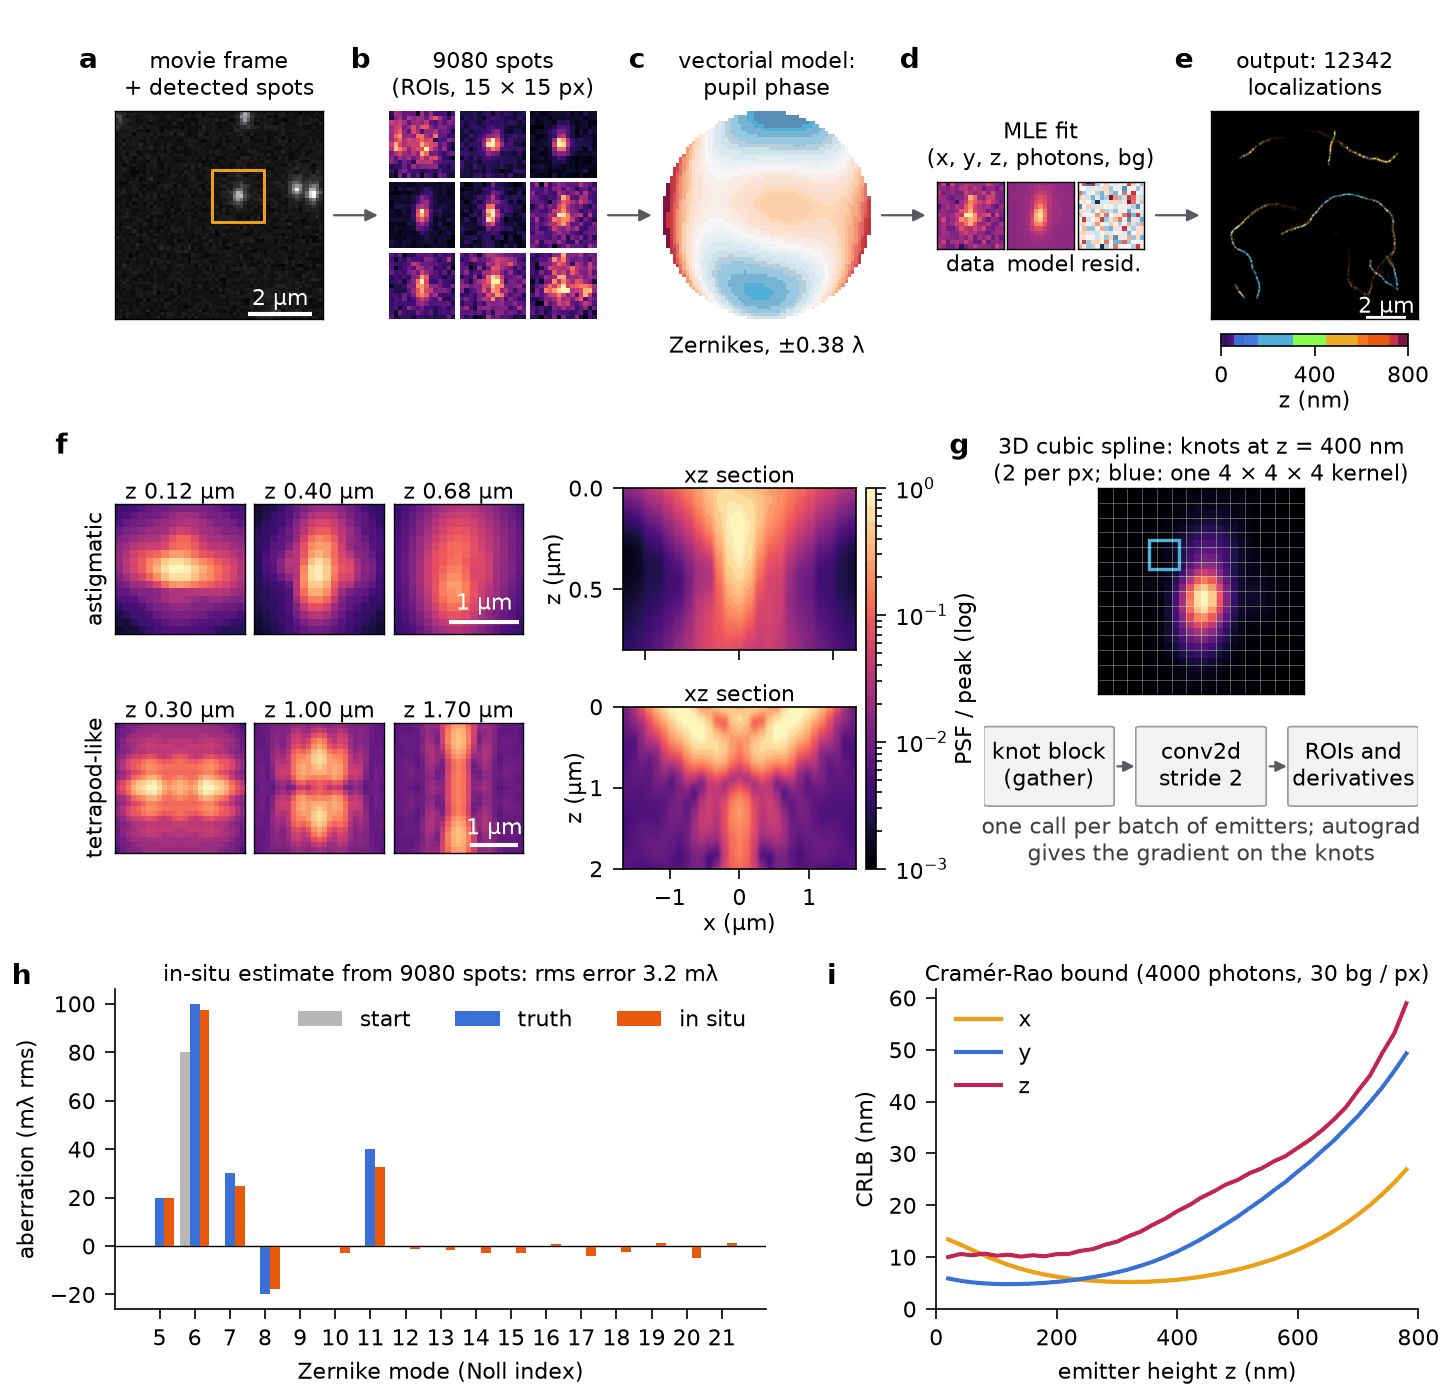
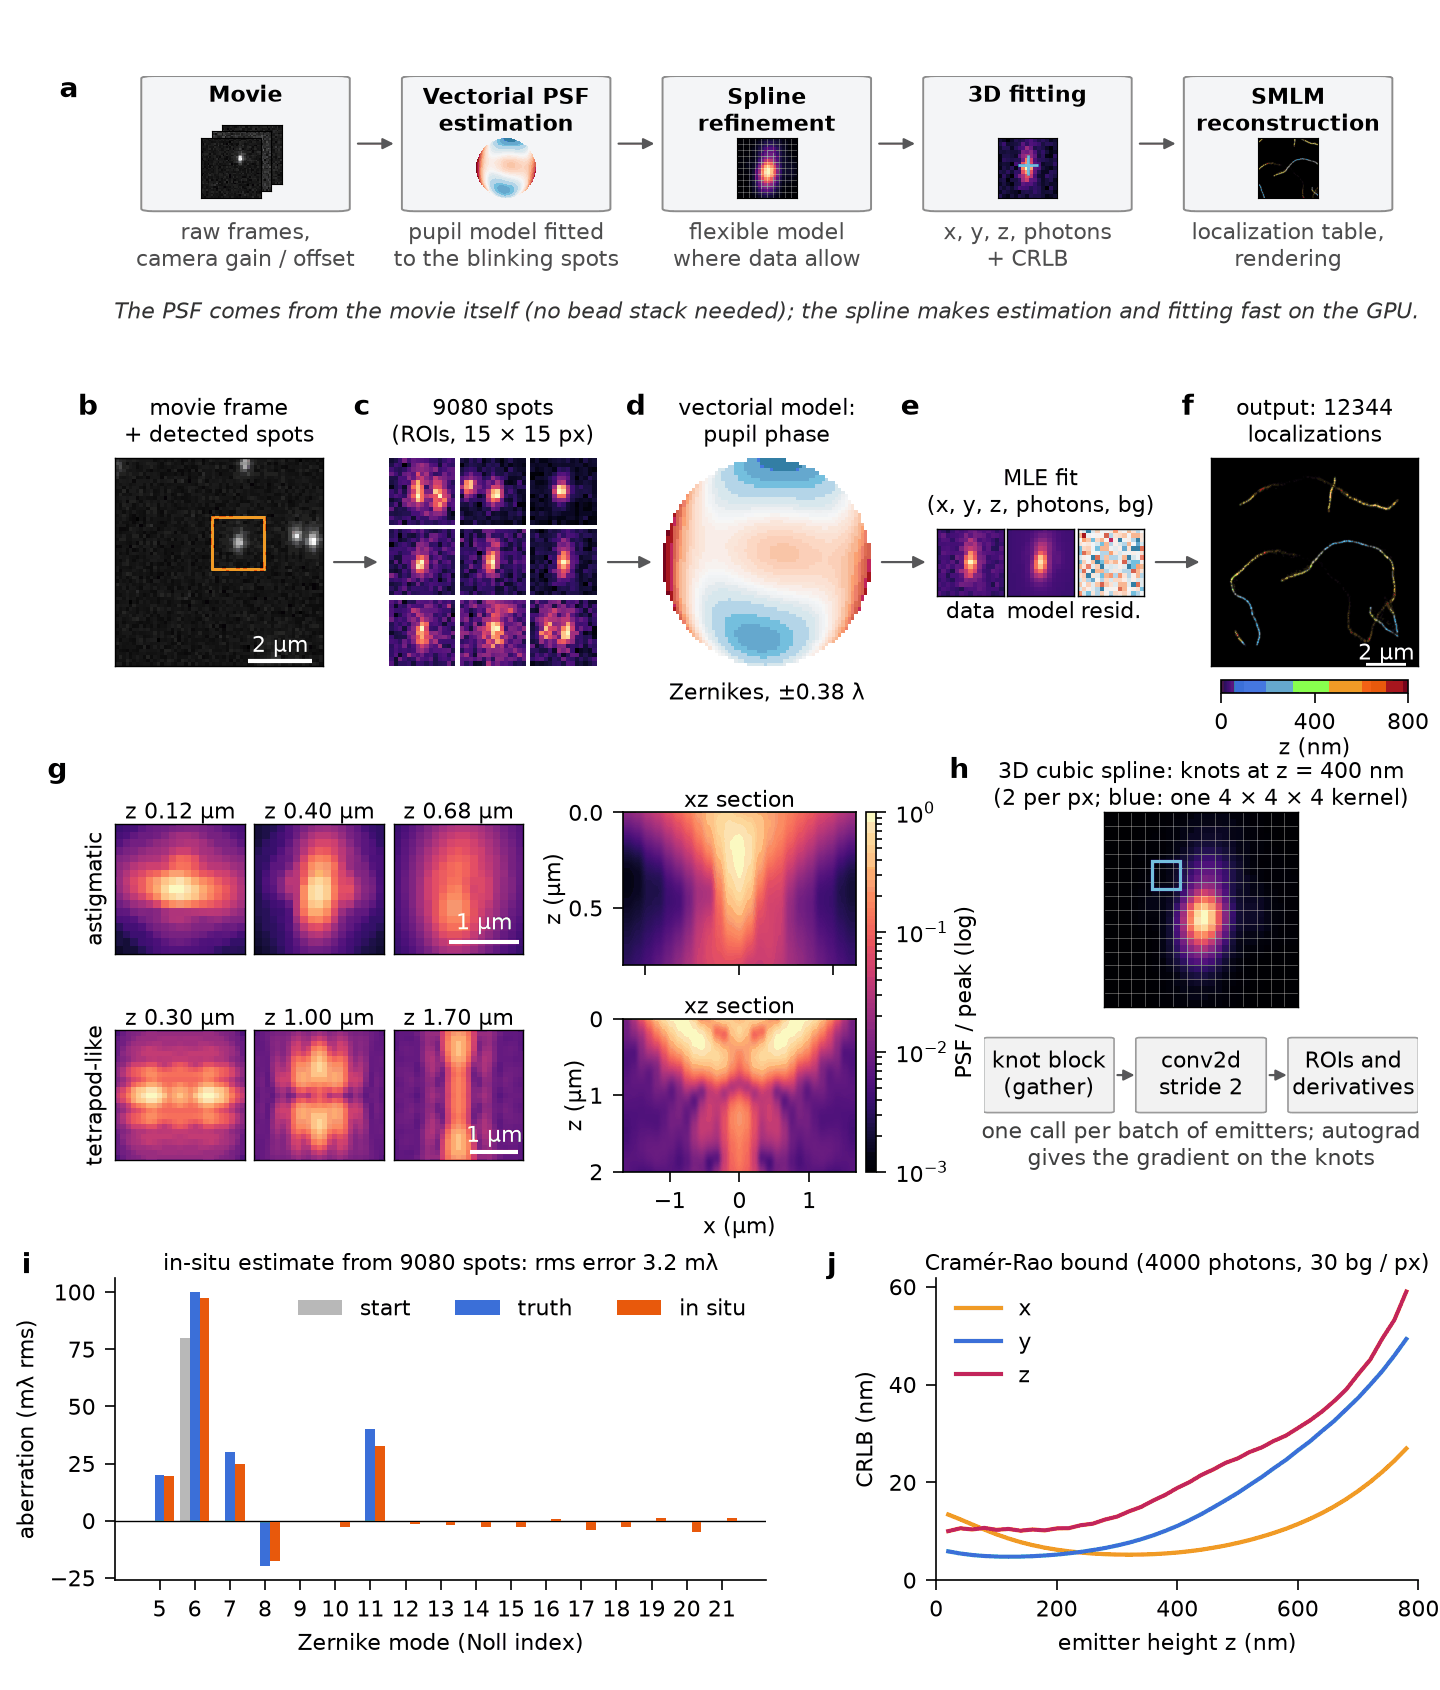
Overview figure: workflow panel (a) on top, the other panels relettered b-j
Panel a: Movie -> Vectorial PSF estimation -> Spline refinement -> 3D fitting -> SMLM reconstruction as rounded
blocks with arrows, a small thumbnail in each (frame stack, pupil phase, spline knots, a spot with its fitted
position, the reconstruction), one short line per block and one benefit line under the row. docs/overview.png
147 kB; README caption updated.

diff --git a/examples/make_overview_figure.py b/examples/make_overview_figure.py
@@ -63,8 +63,8 @@ def sections(vec, zs):
 
 
 # ------------------------------------------------------------------------------------------------ layout
-fig = plt.figure(figsize=(7.2, 7.0))
-G = gridspec.GridSpec(3, 1, figure=fig, height_ratios=[1.0, 1.25, 1.05], hspace=0.36, left=0.08, right=0.985,
+fig = plt.figure(figsize=(7.2, 8.45))
+G = gridspec.GridSpec(4, 1, figure=fig, height_ratios=[0.82, 1.0, 1.25, 1.05], hspace=0.36, left=0.08, right=0.985,
                       top=0.955, bottom=0.065)
 
 
@@ -110,7 +110,7 @@ def arrow(ax0, ax1):
 
 
 # ---- row 1: the flow
-r1 = gridspec.GridSpecFromSubplotSpec(1, 5, subplot_spec=G[0], wspace=0.32)
+r1 = gridspec.GridSpecFromSubplotSpec(1, 5, subplot_spec=G[1], wspace=0.32)
 # (a) data
 ax_a = fig.add_subplot(r1[0])
 fr = int(torch.bincount(spots.frame).argmax())
@@ -120,7 +120,7 @@ for (x0, y0), f in zip(spots.corner.cpu().numpy(), spots.frame.cpu().numpy()):
         ax_a.add_patch(Rectangle((x0 - 18 - 0.5, y0 - 18 - 0.5), 15, 15, fill=False, ec='#ffb000', lw=0.9))
 clean(ax_a); scalebar(ax_a, 2 / PX, '2 µm', (60, 60))
 ax_a.set_title('movie frame\n+ detected spots')
-letter(ax_a, 'a', 0)
+letter(ax_a, 'b', 1)
 # (b) spots
 ax_b = fig.add_subplot(r1[1])
 order = torch.argsort(theta[:, 2])
@@ -132,7 +132,7 @@ for k, i in enumerate(pick):
 cmap_b = plt.get_cmap(CM).copy(); cmap_b.set_bad('white')
 ax_b.imshow(mos, cmap=cmap_b, interpolation='nearest'); ax_b.axis('off')
 ax_b.set_title(f'{len(spots)} spots\n(ROIs, 15 × 15 px)')
-letter(ax_b, 'b', 0)
+letter(ax_b, 'c', 1)
 # (c) model: pupil phase
 ax_c = fig.add_subplot(r1[2])
 Wp = (torch.einsum('j,jnm->nm', astig.zcoef.detach(), astig.Z)).cpu().numpy()
@@ -142,7 +142,7 @@ ax_c.imshow(Wp, cmap=DIV, vmin=-v, vmax=v)
 ax_c.axis('off')
 ax_c.set_title('vectorial model:\npupil phase')
 ax_c.text(0.5, -0.08, f'Zernikes, ±{v:.2f} λ', transform=ax_c.transAxes, ha='center', va='top')
-letter(ax_c, 'c', 0)
+letter(ax_c, 'd', 1)
 # (d) fit
 i = int(pick[5])
 mu = (theta[i, 3] * fitted.render(theta[i:i + 1, :3].to(dev)).cpu()[0] + theta[i, 4]).numpy()
@@ -156,7 +156,7 @@ for ax, im, t in zip(axs_d, (d, mu, (d - mu) / np.sqrt(mu)), ('data', 'model', '
         ax.imshow(im, cmap=CM, vmin=0, vmax=d.max(), interpolation='nearest')
     clean(ax); ax.set_xlabel(t, labelpad=2)
 axs_d[1].set_title('MLE fit\n(x, y, z, photons, bg)')
-letter(axs_d[0], 'd', 0)
+letter(axs_d[0], 'e', 1)
 # (e) output: super-resolution image coloured by z
 ax_e = fig.add_subplot(r1[4])
 sr_px = 0.02                                                     # um per render pixel
@@ -176,10 +176,10 @@ ax_e.set_title(f'output: {len(locs)}\nlocalizations')
 cax = ax_e.inset_axes([0.05, -0.13, 0.9, 0.06])
 plt.colorbar(plt.cm.ScalarMappable(Normalize(0, 800), ZCM), cax=cax, orientation='horizontal')
 cax.set_xticks([0, 400, 800]); cax.set_xlabel('z (nm)', labelpad=1)
-letter(ax_e, 'e', 0)
+letter(ax_e, 'f', 1)
 
 # ---- row 2: PSF sections (f) and the spline (g)
-r2 = gridspec.GridSpecFromSubplotSpec(1, 2, subplot_spec=G[1], width_ratios=[1.75, 1], wspace=0.18)
+r2 = gridspec.GridSpecFromSubplotSpec(1, 2, subplot_spec=G[2], width_ratios=[1.75, 1], wspace=0.18)
 sf = gridspec.GridSpecFromSubplotSpec(2, 6, subplot_spec=r2[0], width_ratios=[1, 1, 1, 0.62, 1.8, 0.08],
                                       wspace=0.08, hspace=0.35)
 norm = LogNorm(1e-3, 1)
@@ -199,7 +199,7 @@ for row, (vec, name, zr) in enumerate([(astig, 'astigmatic', (0.0, 0.8)), (tetra
         if k == 0:
             ax.set_ylabel(name, labelpad=3)
             if row == 0:
-                letter(ax, 'f', 1)
+                letter(ax, 'g', 2)
         if k == 2:
             scalebar(ax, 1 / PX, '1 µm', (2 * hw + 1, 2 * hw + 1))
     zz = torch.linspace(zr[0], zr[1], 61, device=dev)
@@ -226,7 +226,7 @@ for t in np.arange(-0.5, 28, 2):
 ax.add_patch(Rectangle((6.5, 6.5), 4, 4, fill=False, ec='#38c6ff', lw=1.2))
 clean(ax)
 ax.set_title('3D cubic spline: knots at z = 400 nm\n(2 per px; blue: one 4 × 4 × 4 kernel)', pad=2)
-letter(ax, 'g', 1)
+letter(ax, 'h', 2)
 ax = fig.add_subplot(sg[1]); ax.axis('off'); ax.set_xlim(0, 1); ax.set_ylim(0, 1)
 for x, t in [(0.0, 'knot block\n(gather)'), (0.35, 'conv2d\nstride 2'), (0.70, 'ROIs and\nderivatives')]:
     ax.add_patch(FancyBboxPatch((x + 0.01, 0.42), 0.28, 0.5, boxstyle='round,pad=0.01', fc='#f2f2f2', ec='0.6',
@@ -239,7 +239,7 @@ ax.text(0.5, 0.18, 'one call per batch of emitters; autograd\ngives the gradient
         ha='center', va='center', fontsize=8, color='0.25')
 
 # ---- row 3: in-situ estimate (h) and CRLB (i)
-r3 = gridspec.GridSpecFromSubplotSpec(1, 2, subplot_spec=G[2], width_ratios=[1.35, 1], wspace=0.3)
+r3 = gridspec.GridSpecFromSubplotSpec(1, 2, subplot_spec=G[3], width_ratios=[1.35, 1], wspace=0.3)
 ax = fig.add_subplot(r3[0])
 nl = list(range(5, 22))
 tv = np.array([truth.get(j, 0.0) for j in nl])
@@ -256,7 +256,7 @@ ax.legend(frameon=False, ncol=3, loc='upper right')
 err = float(np.sqrt(np.mean((ev - tv) ** 2)))
 ax.set_title(f'in-situ estimate from {len(spots)} spots: rms error {1000 * err:.1f} mλ', pad=3)
 ax.spines[['top', 'right']].set_visible(False)
-letter(ax, 'h', 2)
+letter(ax, 'i', 3)
 ax = fig.add_subplot(r3[1])
 zz = torch.linspace(0.02, 0.78, 39, device=dev)
 th = torch.stack([torch.zeros_like(zz), torch.zeros_like(zz), zz, torch.full_like(zz, 4000.0),
@@ -270,7 +270,62 @@ ax.set_xlabel('emitter height z (nm)'); ax.set_ylabel('CRLB (nm)'); ax.set_ylim(
 ax.legend(frameon=False, loc='upper left')
 ax.set_title('Cramér-Rao bound (4000 photons, 30 bg / px)', pad=3)
 ax.spines[['top', 'right']].set_visible(False)
-letter(ax, 'i', 2)
+letter(ax, 'j', 3)
+
+
+# ---- row 0: the workflow at a glance (a)
+ax0 = fig.add_subplot(G[0]); ax0.axis('off'); ax0.set_xlim(0, 5); ax0.set_ylim(-0.36, 1)
+stages = [('Movie', 'raw frames,\ncamera gain / offset'),
+          ('Vectorial PSF\nestimation', 'pupil model fitted\nto the blinking spots'),
+          ('Spline\nrefinement', 'flexible model\nwhere data allow'),
+          ('3D fitting', 'x, y, z, photons\n+ CRLB'),
+          ('SMLM\nreconstruction', 'localization table,\nrendering')]
+bw, by, bh = 0.8, 0.22, 0.78
+for k, (name, benefit) in enumerate(stages):
+    x0 = k + (1 - bw) / 2
+    ax0.add_patch(FancyBboxPatch((x0, by), bw, bh, boxstyle='round,pad=0.0,rounding_size=0.05', fc='#f4f5f7',
+                                 ec='0.55', lw=0.7, mutation_aspect=1 / 3.5))
+    ax0.text(k + 0.5, by + bh - 0.05, name, ha='center', va='top', fontsize=8, fontweight='bold')
+    ax0.text(k + 0.5, by - 0.05, benefit, ha='center', va='top', fontsize=8, color='0.3')
+    if k < 4:
+        ax0.annotate('', xy=(k + 1 + (1 - bw) / 2 - 0.01, by + bh / 2), xytext=(x0 + bw + 0.01, by + bh / 2),
+                     arrowprops=dict(arrowstyle='-|>', lw=0.8, color='0.35'))
+fig.canvas.draw()
+
+
+def thumb(k, image, cmap=None, norm=None, frac=(0.29, 0.05, 0.42, 0.44)):
+    """small image inside workflow block k (box-relative position: x, y from the box bottom, w, h)"""
+    x0 = k + (1 - bw) / 2
+    ins = ax0.inset_axes([x0 + frac[0] * bw, by + frac[1] * bh + 0.04, frac[2] * bw, frac[3] * bh],
+                         transform=ax0.transData)
+    ins.imshow(image, cmap=cmap, norm=norm, interpolation='nearest' if cmap else 'bilinear', aspect='equal')
+    ins.set_xticks([]); ins.set_yticks([])
+    for sp_ in ins.spines.values():
+        sp_.set_linewidth(0.4)
+    return ins
+
+
+# 1 movie: three frames as a small stack
+for j, off in enumerate((0.1, 0.05, 0.0)):
+    frm = movie[fr + 2 - j].float().numpy()[30:66, 30:66]
+    thumb(0, frm, cmap='gray', frac=(0.22 + off, 0.05 + off * 1.0, 0.42, 0.44))
+# 2 pupil phase
+ins = thumb(1, Wp, cmap=DIV)
+ins.images[0].set_clim(-v, v); ins.axis('off')
+# 3 spline knots with the knot grid
+ins = thumb(2, K[kz, c0 + 4:c0 + 24, c0 + 4:c0 + 24], cmap=CM)
+for t in np.arange(-0.5, 20, 2):
+    ins.axhline(t, color='w', lw=0.2, alpha=0.5); ins.axvline(t, color='w', lw=0.2, alpha=0.5)
+# 4 a spot with the fitted position
+ins = thumb(3, d, cmap=CM)
+xf, yf = float(theta[i, 0]) + 7, float(theta[i, 1]) + 7
+ins.plot([xf], [yf], marker='+', color='#38c6ff', ms=7, mew=1.0)
+# 5 the reconstruction (centre crop)
+n2 = img.shape[0]
+thumb(4, np.clip(img[n2 // 6:5 * n2 // 6, n2 // 6:5 * n2 // 6] * 1.8, 0, 1))
+ax0.text(2.5, -0.3, 'The PSF comes from the movie itself (no bead stack needed); the spline makes estimation and '
+         'fitting fast on the GPU.', ha='center', va='top', fontsize=8, style='italic', color='0.2')
+letter(ax0, 'a', 0)
 
 # arrows of the flow row (after the layout is fixed)
 fig.canvas.draw()

diff --git a/README.md b/README.md
@@ -13,11 +13,11 @@ PyTorch, batched on the GPU:
 
 ![overview](docs/overview.png)
 
-*Overview (made by [examples/make_overview_figure.py](examples/make_overview_figure.py) from generated data). Top, the
-flow: (a) a movie frame with detected spots, (b) spot ROIs, (c) the vectorial model (pupil aberration phase), (d) a
-maximum-likelihood fit (data, model, normalized residual), (e) the localizations as a super-resolution image coloured
-by z. Below: (f) sections of an astigmatic and a tetrapod-like PSF, (g) the convolutional spline, (h) the in-situ
-Zernike estimate against the truth, (i) the Cramér-Rao bound.*
+*Overview (made by [examples/make_overview_figure.py](examples/make_overview_figure.py) from generated data).
+(a) The workflow. (b-f) The flow in detail: a movie frame with detected spots, spot ROIs, the vectorial model (pupil
+aberration phase), a maximum-likelihood fit (data, model, normalized residual), the localizations as a
+super-resolution image coloured by z. (g) Sections of an astigmatic and a tetrapod-like PSF, (h) the 3D cubic spline,
+(i) the in-situ Zernike estimate against the truth, (j) the Cramér-Rao bound.*
 
 ```python
 import torch, torch_psf as tp
